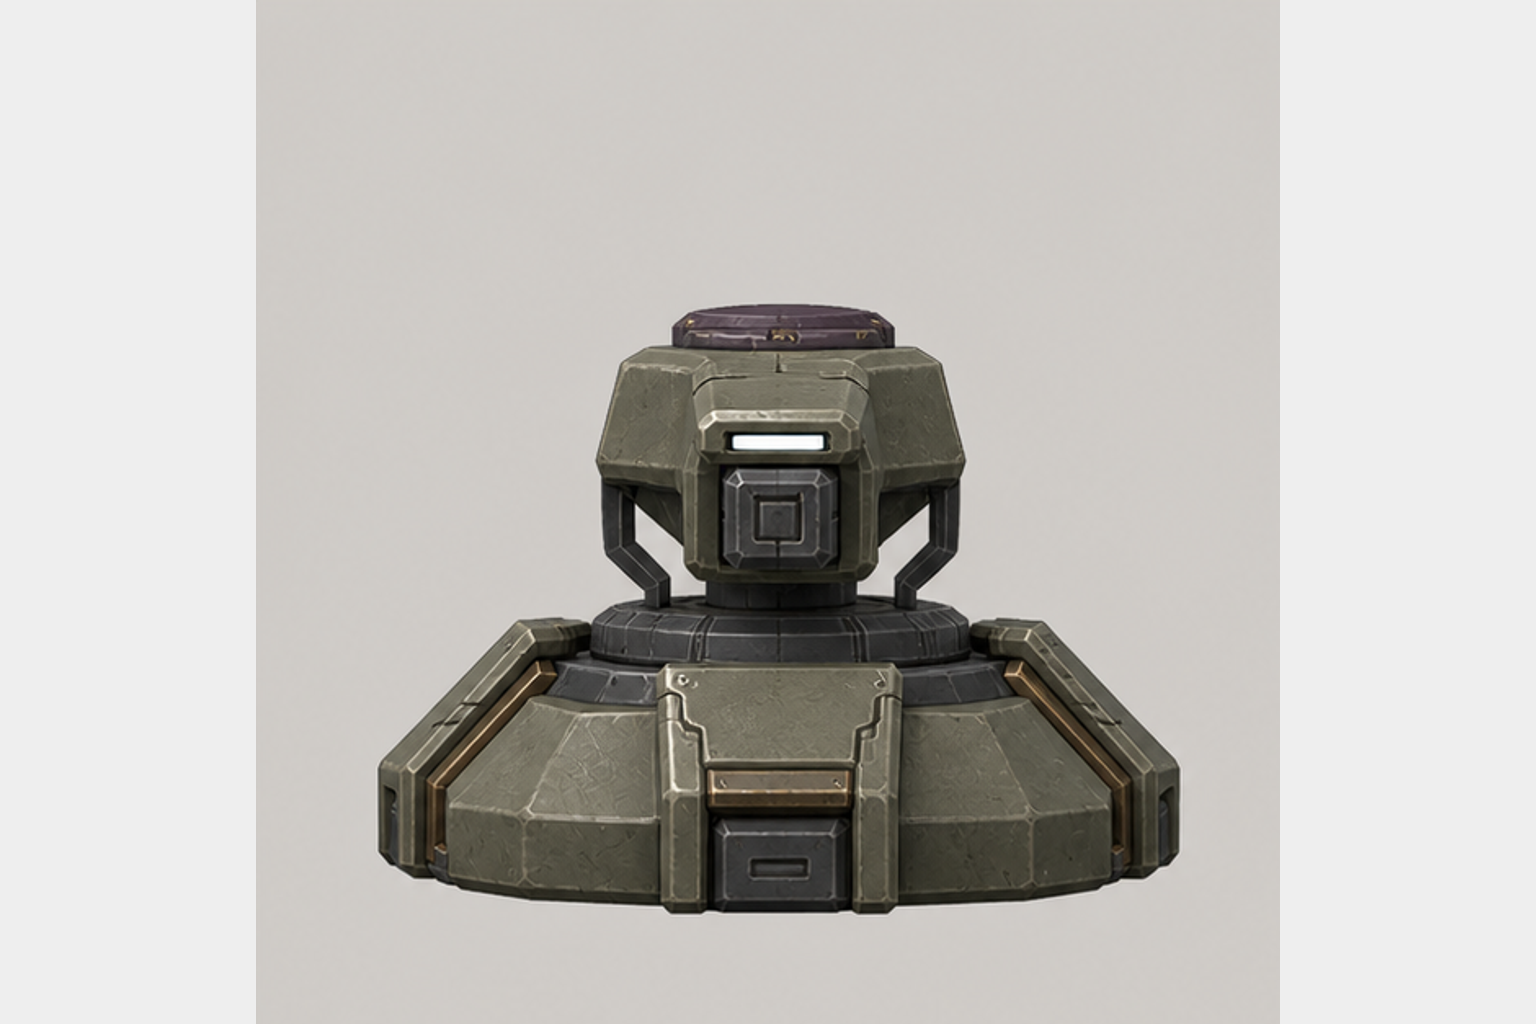
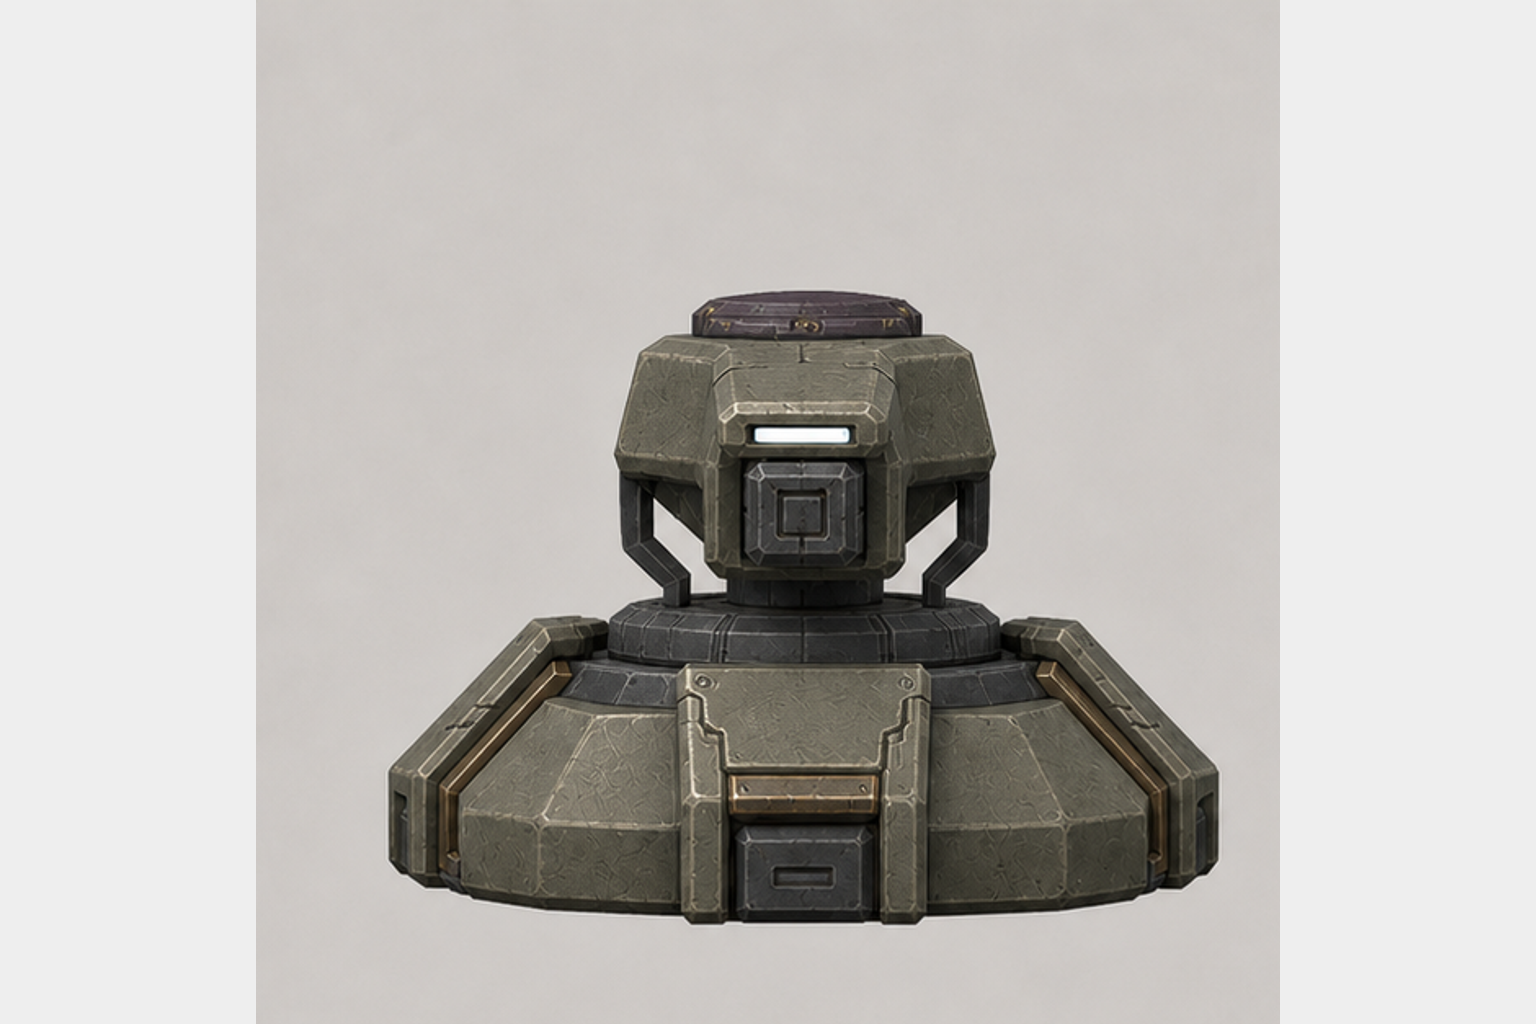
art: approve matte sentinel handoff

Changed region(s): [[0.2188, 0.2812, 0.8125, 0.9062]]

diff --git a/art/signature-models/arc-relay/meshy7-matte-concepts-v1/index.html b/art/signature-models/arc-relay/meshy7-matte-concepts-v1/index.html
@@ -64,11 +64,11 @@
   </head>
   <body>
     <main>
-      <div class="eyebrow">Sentinel finish revision · owner review · 2026-08-12</div>
+      <div class="eyebrow">Owner approved · provider inputs ready · 2026-08-12</div>
       <h1>Arc Relay matte signature models</h1>
       <p class="lede">A deliberately small Meshy 7 round: two persistent world props, each redesigned to belong to its deploying bot. Every other signature remains an exact renderer-authored effect or a 2D projectile.</p>
 
-      <div class="gate"><strong>Sentinel v2 is a finish-only review candidate; no provider spend.</strong> Trip Node remains approved. The earlier Sentinel inputs are intentionally inactive until this drier material pass is approved; a separate explicit authorization is still required before either Meshy task.</div>
+      <div class="gate"><strong>Trip Node and Sentinel matte v2 are approved; no provider spend yet.</strong> Their separate canonical inputs are ready and inactive. A second explicit authorization is required before either Meshy task; runtime promotion remains a later review gate.</div>
 
       <div class="concepts">
         <article class="card">
@@ -84,17 +84,17 @@
         <article class="card">
           <img src="sentinel-seed-turnaround-matte-v2.png" alt="Four-view turnaround sheet for the drier matte Sentinel Seed finish revision" />
           <div class="copy">
-            <div class="eyebrow">Nest · finish candidate v2</div>
+            <div class="eyebrow">Nest · approved matte v2</div>
             <h2>Sentinel Seed</h2>
             <p>The same planted seed-pod sentry with a deliberately drier response: high-roughness pine-sage armor, a matte aubergine cap, charcoal mechanisms, and only subdued satin hardware.</p>
-            <div class="chips"><span class="chip">finish-only revision</span><span class="chip">high roughness</span><span class="chip">no clearcoat</span><span class="chip">pending approval</span></div>
+            <div class="chips"><span class="chip">approved</span><span class="chip">high roughness</span><span class="chip">no clearcoat</span><span class="chip">provider inputs ready</span></div>
           </div>
         </article>
       </div>
 
       <section>
         <div class="eyebrow">Finish check</div>
-        <h2>Sentinel Seed · previous vs matte v2</h2>
+        <h2>Sentinel Seed · previous vs approved matte v2</h2>
         <div class="finish-compare">
           <figure>
             <img src="sentinel-seed-turnaround.png" alt="Previous Sentinel Seed concept with stronger specular sheen" />
@@ -102,7 +102,7 @@
           </figure>
           <figure>
             <img src="sentinel-seed-turnaround-matte-v2.png" alt="Revised Sentinel Seed concept with dry high-roughness finish" />
-            <figcaption><strong>Matte v2 candidate.</strong> Softer diffuse highlights, dry armor response, and no lacquered cap; tiny umber hardware remains only faintly satin.</figcaption>
+            <figcaption><strong>Approved matte v2.</strong> Softer diffuse highlights, dry armor response, and no lacquered cap; tiny umber hardware remains only faintly satin.</figcaption>
           </figure>
         </div>
       </section>
@@ -128,7 +128,7 @@
             <tr><td>Target Paint</td><td class="effect">Renderer brackets and remaining-hit state · no model</td></tr>
             <tr><td>Kinetic Burst</td><td class="effect">Renderer displacement ring · no model</td></tr>
             <tr><td>Smoke Canister</td><td class="effect">2D travelling silhouette + renderer smoke volume · no GLB for now</td></tr>
-            <tr><td>Sentinel Seed</td><td class="model">Meshy 7 model candidate · matte v2 finish under review</td></tr>
+            <tr><td>Sentinel Seed</td><td class="model">Meshy 7 model candidate · approved matte v2 sheet</td></tr>
           </tbody>
         </table>
       </section>
@@ -142,7 +142,7 @@
         </div>
       </section>
 
-      <footer>Exact prompts, ordered references, dimensions and SHA-256 hashes are stored beside this sheet in <code>PROMPTS.md</code> and <code>manifest.json</code>. The previous Sentinel sheet is retained as provenance. No game files, runtime manifests, or provider tasks changed.</footer>
+      <footer>Exact prompts, ordered references, dimensions and SHA-256 hashes are stored beside this sheet in <code>PROMPTS.md</code> and <code>manifest.json</code>. The previous Sentinel sheet is retained as provenance. No game files, runtime manifests, or provider tasks changed; the paid-call gate remains closed.</footer>
     </main>
   </body>
 </html>

diff --git a/art/signature-models/arc-relay/meshy7-matte-concepts-v1/README.md b/art/signature-models/arc-relay/meshy7-matte-concepts-v1/README.md
@@ -1,24 +1,22 @@
 # Arc Relay matte signature concepts v1
 
-Status: **Sentinel finish revision in review; no provider spend**. The owner
-approved the overall model direction on 2026-08-12, then flagged residual
-glossiness on Sentinel Seed. `sentinel-seed-turnaround-matte-v2.png` is the
-finish-only correction candidate; the original sheet remains beside it for
-comparison. This review does not authorize a paid Meshy request, change a
+Status: **concept approved; provider inputs ready; no provider spend**. The
+owner approved Trip Node and the drier Sentinel Seed matte v2 finish on
+2026-08-12. The original Sentinel sheet remains beside v2 for provenance and
+comparison. This approval does not authorize a paid Meshy request, change a
 runtime asset, or alter game mechanics.
 
 Open `index.html` for the complete visual review sheet.
 
 ## Recommendation
 
-The proposed provider batch remains exactly two Meshy 7 multi-image-to-3D tasks:
+The approved provider batch is exactly two Meshy 7 multi-image-to-3D tasks:
 
 1. **Trip Node** — replace the current glossy generic mine with the
    Minesmith-family three-lobed forge clamp in `trip-node-turnaround.png`.
 2. **Sentinel Seed** — replace the current beige tank-like turret with the
-   Nest-family planted seed-pod sentry. The active review candidate is
-   `sentinel-seed-turnaround-matte-v2.png`; its drier finish needs owner
-   approval before new provider inputs are prepared.
+   Nest-family planted seed-pod sentry in
+   `sentinel-seed-turnaround-matte-v2.png`.
 
 No other launch signature needs a standalone GLB in this pass. Standard
 attacks and the travelling parts of Survey Flare, Falling Star, Arc Toss, and
@@ -77,12 +75,12 @@ metal hardware.
 
 ## Provider handoff gate
 
-Trip Node's approved sheet remains split into canonical views under
-`provider-inputs/trip-node/`. Sentinel Seed's earlier views remain under
-`provider-inputs/sentinel-seed/` as provenance, but are marked superseded and
-must not be submitted. After Sentinel v2 is approved, regenerate and validate
-its four canonical inputs. Both manifests keep the inactive 30-credit-per-task
-safety cap; validation does not read the credential or call Meshy.
+Both approved sheets are split into canonical views under
+`provider-inputs/trip-node/` and `provider-inputs/sentinel-seed/`. Sentinel's
+four inputs were regenerated from the approved matte v2 sheet; the earlier
+finish remains only as provenance. Both manifests keep the inactive
+30-credit-per-task safety cap; validation does not read the credential or call
+Meshy.
 
 Do not upload either contact sheet directly. Submit one object per task only
 after the owner explicitly authorizes the paid calls. Immediately before that
